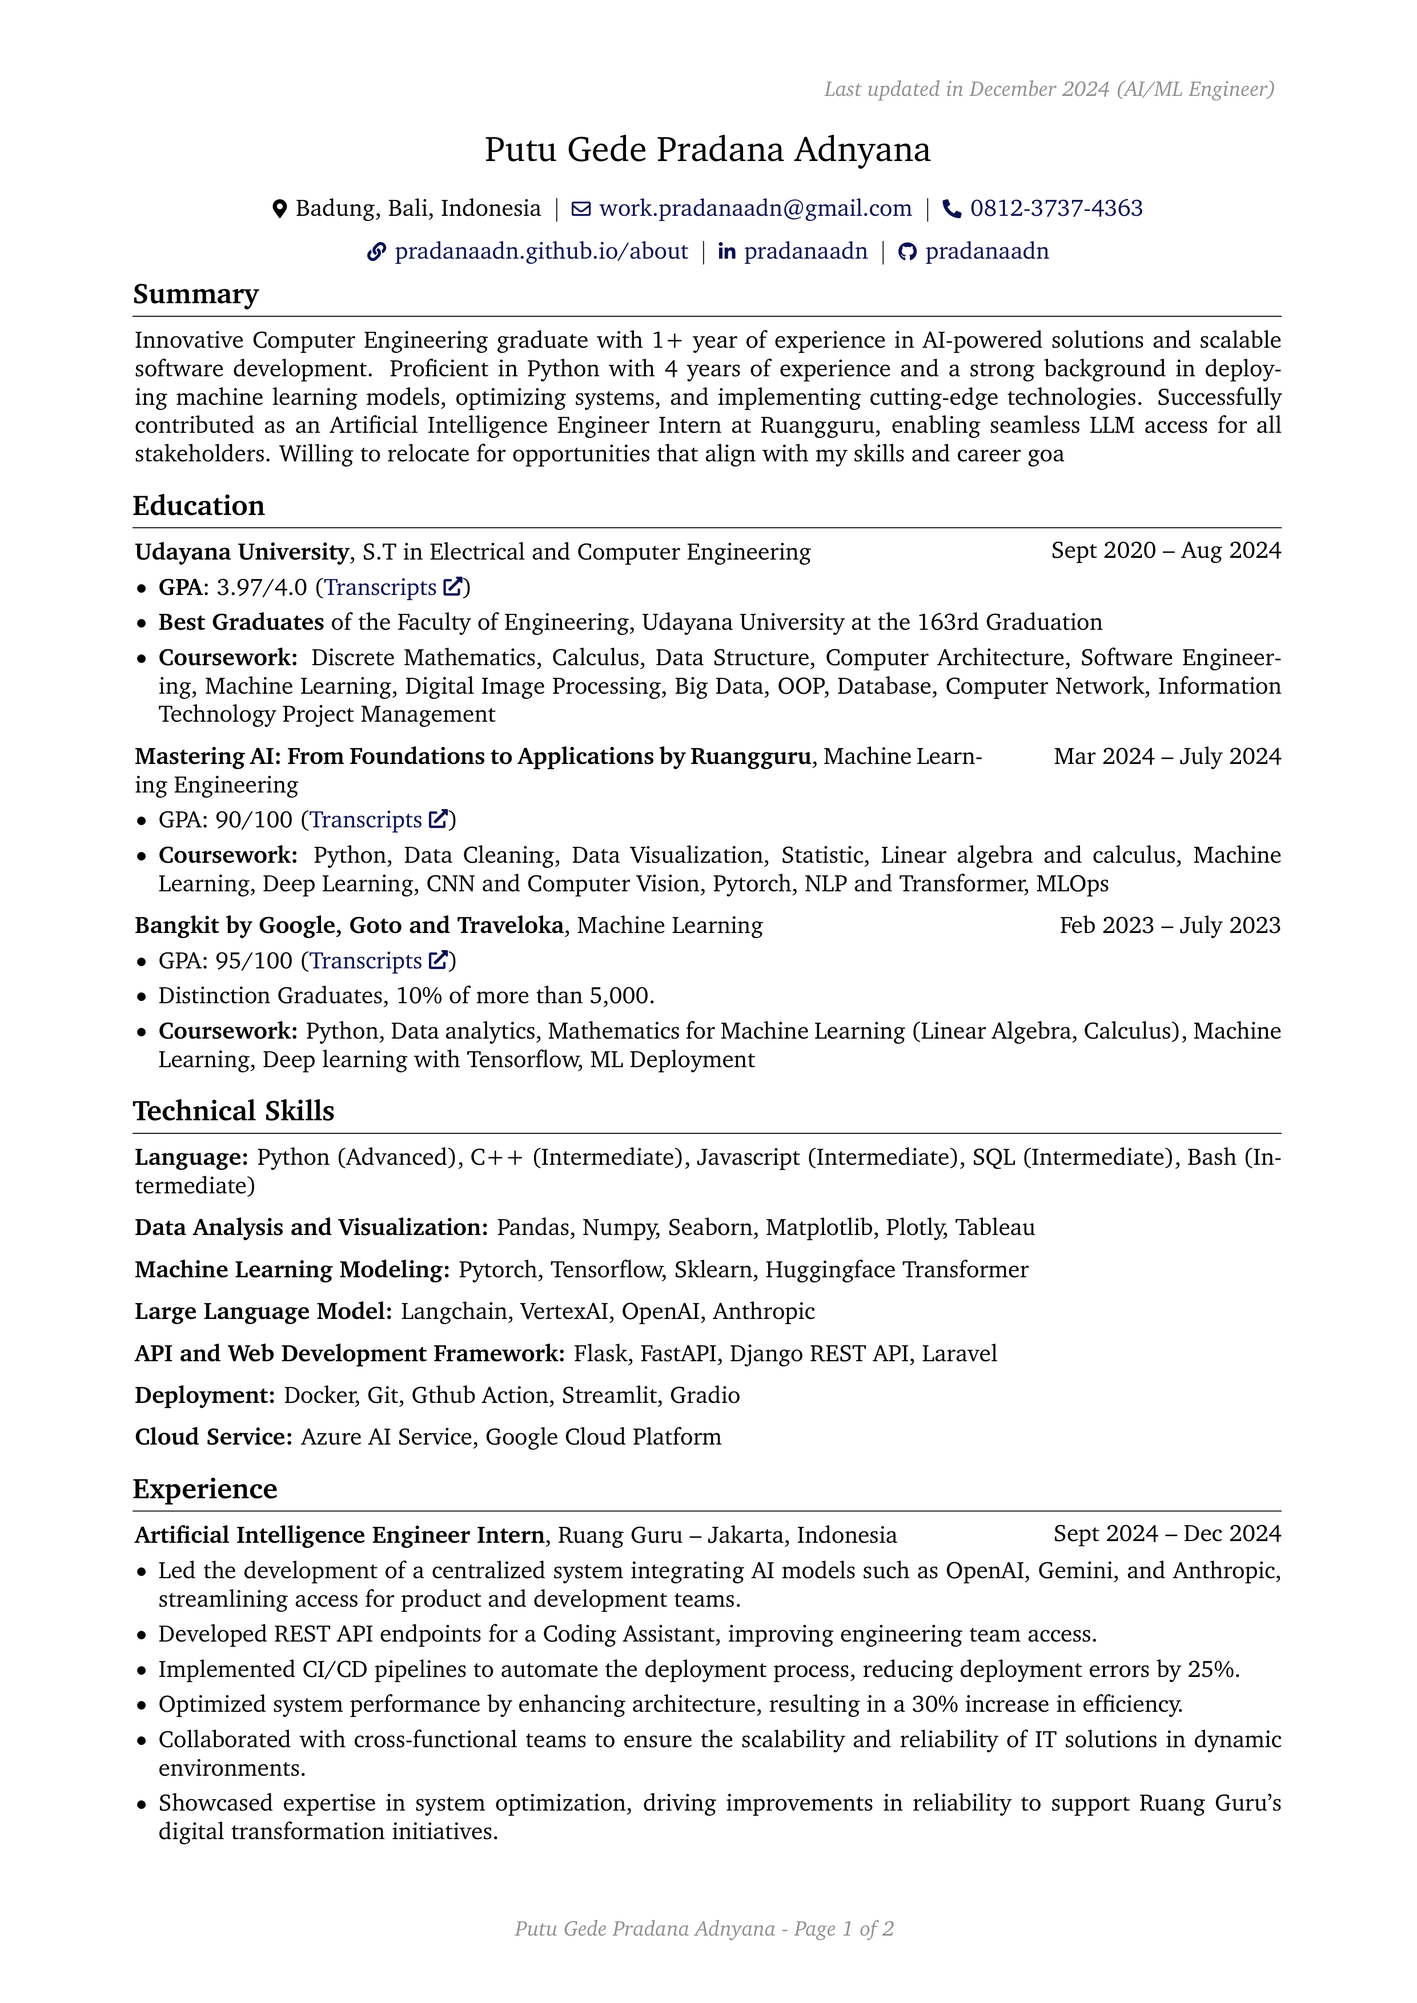
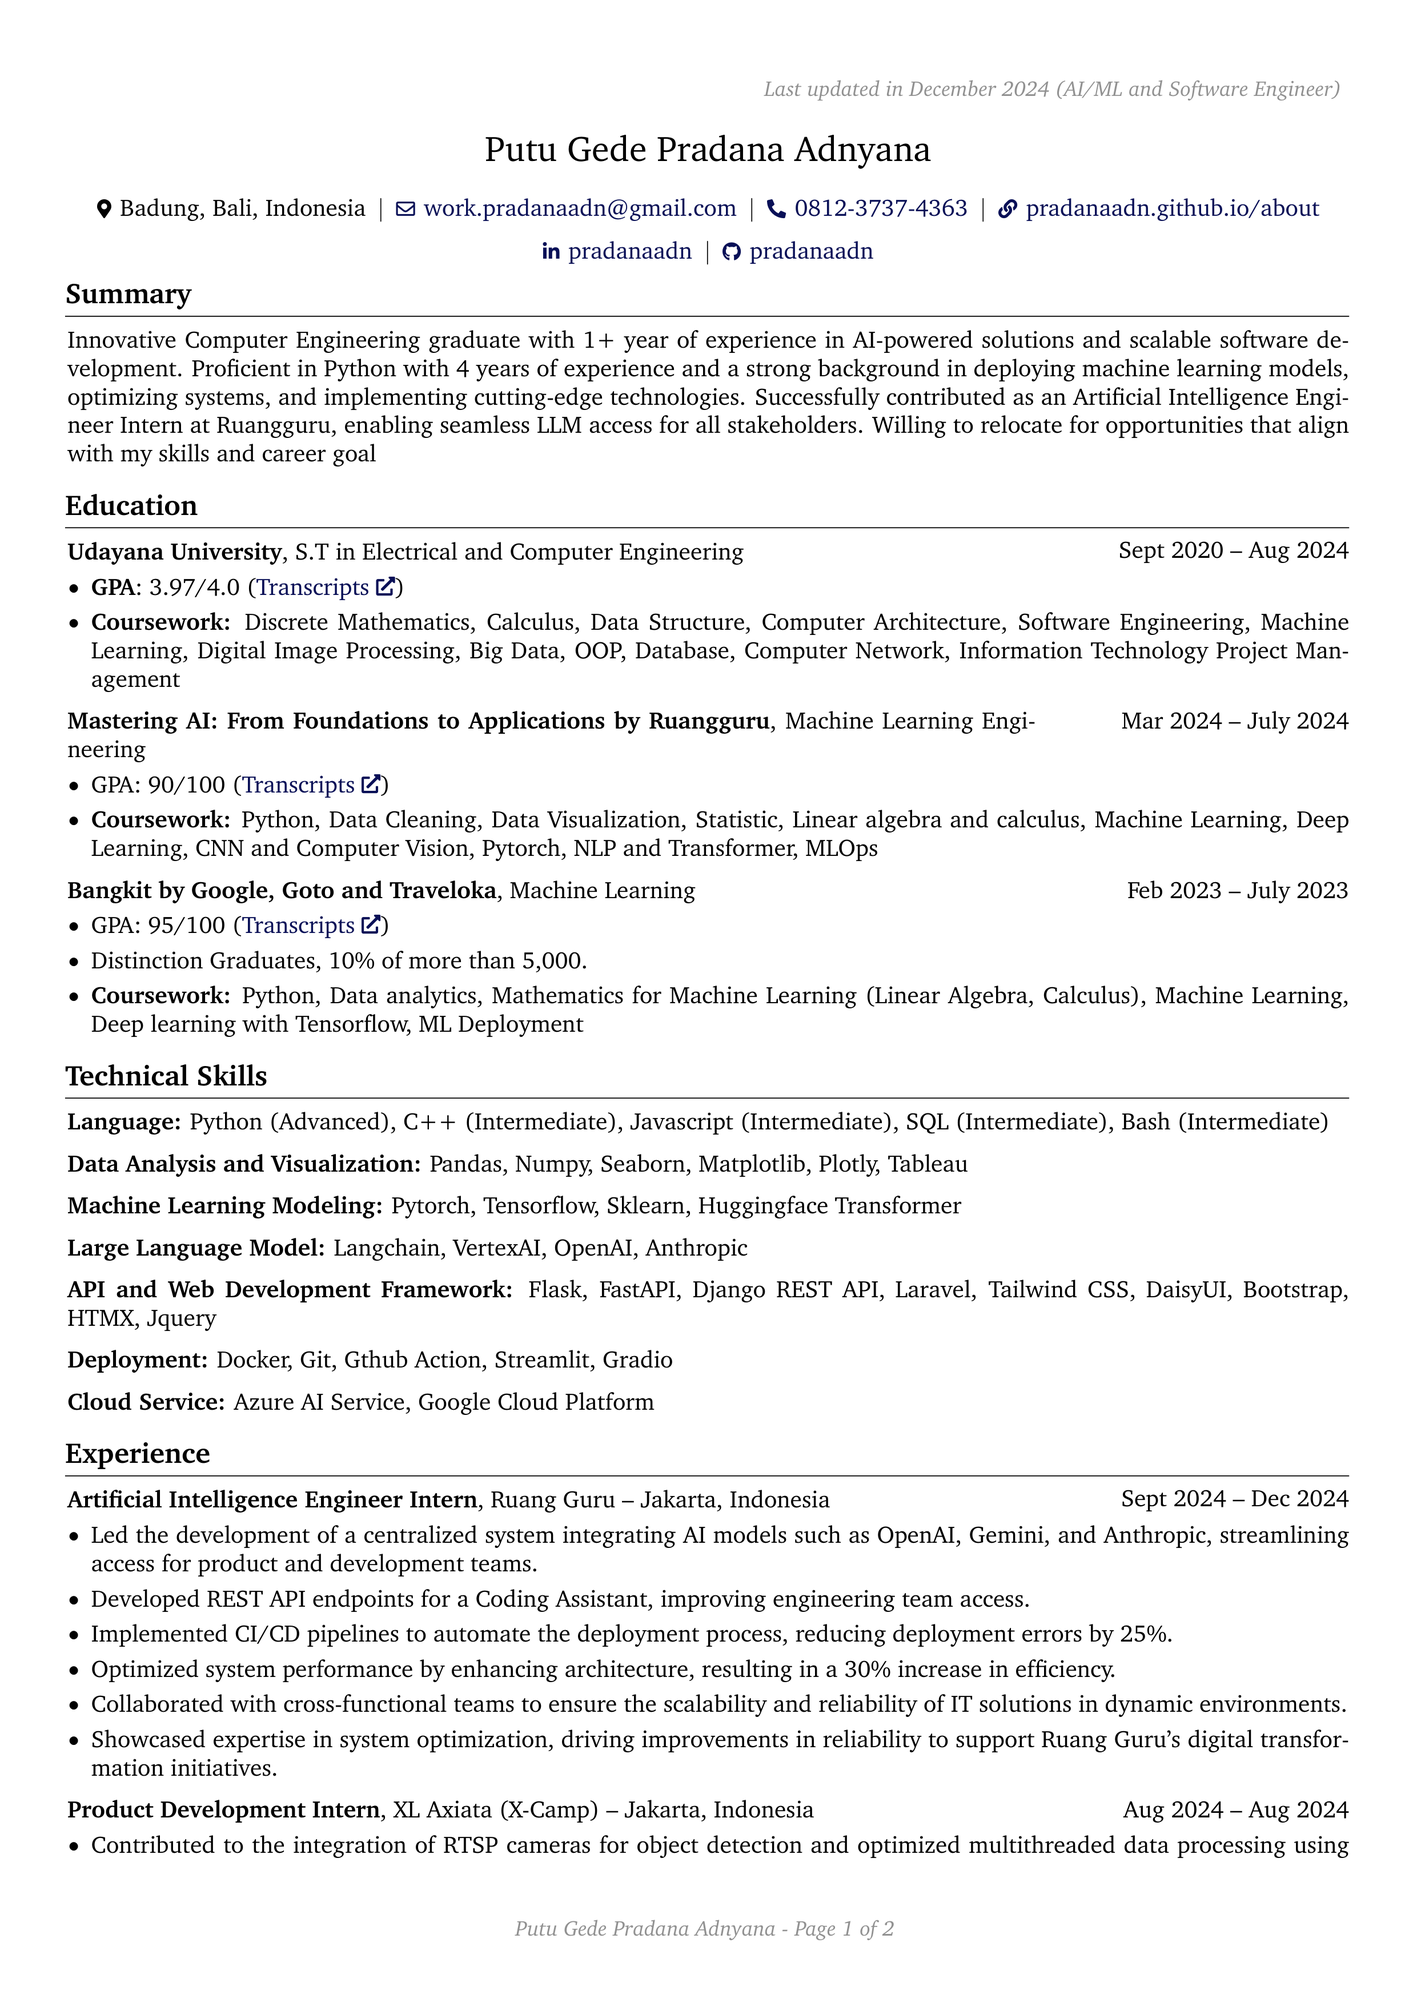
update: AI Engineer BSD

Changed region(s): [[0.031, 0.0932, 0.9621, 0.9322], [0.6207, 0.0311, 0.9, 0.0621], [0.7759, 0.2486, 0.9311, 0.2796]]

diff --git a/rendercv_output/Putu_Gede_Pradana_Adnyana_CV.html b/rendercv_output/Putu_Gede_Pradana_Adnyana_CV.html
@@ -41,13 +41,12 @@
         <li>GitHub: <a href="https://github.com/pradanaadn">pradanaadn</a></li>
         </ul>
         <h1>Summary</h1>
-        <p>Innovative Computer Engineering graduate with 1+ year of experience in AI-powered solutions and scalable software development. Proficient in Python with 4 years of experience and a strong background in deploying machine learning models, optimizing systems, and implementing cutting-edge technologies. Successfully contributed as an Artificial Intelligence Engineer Intern at Ruangguru, enabling seamless LLM access for all stakeholders. Willing to relocate for opportunities that align with my skills and career goa</p>
+        <p>Innovative Computer Engineering graduate with 1+ year of experience in AI-powered solutions and scalable software development. Proficient in Python with 4 years of experience and a strong background in deploying machine learning models, optimizing systems, and implementing cutting-edge technologies. Successfully contributed as an Artificial Intelligence Engineer Intern at Ruangguru, enabling seamless LLM access for all stakeholders. Willing to relocate for opportunities that align with my skills and career goal</p>
         <h1>Education</h1>
         <h2>Udayana University, S.T in Electrical and Computer Engineering</h2>
         <ul>
         <li>Sept 2020 – Aug 2024</li>
         <li><strong>GPA</strong>: 3.97/4.0 (<a href="https://drive.google.com/file/d/1pP8v7Sbi2i_VDCOLNyjXUbzSdkNwGF2a/view?usp=sharing">Transcripts</a>)</li>
-        <li><strong>Best Graduates</strong> of the Faculty of Engineering, Udayana University at the 163rd Graduation</li>
         <li><strong>Coursework:</strong> Discrete Mathematics, Calculus, Data Structure, Computer Architecture, Software Engineering, Machine Learning, Digital Image Processing, Big Data, OOP, Database, Computer Network, Information Technology Project Management</li>
         </ul>
         <h2>Mastering AI: From Foundations to Applications by Ruangguru, Machine Learning Engineering</h2>
@@ -69,7 +68,7 @@
         <li>Data Analysis and Visualization: Pandas, Numpy, Seaborn, Matplotlib, Plotly, Tableau</li>
         <li>Machine Learning Modeling: Pytorch, Tensorflow, Sklearn, Huggingface Transformer</li>
         <li>Large Language Model: Langchain, VertexAI, OpenAI, Anthropic</li>
-        <li>API and Web Development Framework: Flask, FastAPI, Django REST API, Laravel</li>
+        <li>API and Web Development Framework: Flask, FastAPI, Django REST API, Laravel, Tailwind CSS, DaisyUI, Bootstrap, HTMX, Jquery</li>
         <li>Deployment: Docker, Git, Gthub Action, Streamlit, Gradio</li>
         <li>Cloud Service: Azure AI Service, Google Cloud Platform</li>
         </ul>
@@ -112,19 +111,19 @@
         <li>Provided actionable insights, such as identifying 60% organic waste, leading to better infrastructure planning like composting facilities.</li>
         <li>Tools Used: Python, Streamlit, Alibaba Cloud, Ultralytics, OpenCV</li>
         </ul>
-        <h2>COVID-19 Detection via Chest X-rays</h2>
+        <h2>Capstone Project Information System</h2>
         <ul>
-        <li>(<a href="https://github.com/pradanaadn/covid-19-detection">Project Repository</a>)</li>
-        <li>Tackled the challenge of automating COVID-19 detection using chest X-rays with a deep learning model.</li>
-        <li>Led the development and training of a CNN model using PyTorch and a fine-tuned ResNet-50 architecture.</li>
-        <li>Preprocessed images (224x224 size, normalized, augmented) and implemented training with Adam optimizer and cross-entropy loss.</li>
+        <li>(<a href="https://drive.google.com/file/d/1x37qvoekHEoIhrANusdd5onVDC--48Cn/view?usp=sharing">Project Report</a>)</li>
+        <li>Designed an information system by creating database architecture with Entity-Relationship Diagrams (ERD),designing user interfaces using Figma, and conducting requirements analysis with Unified Modeling Language (UML).</li>
+        <li>Developed and implemented the system within agile environments, enhancing adaptability and facilitating iterative improvements.</li>
+        <li>Conducted comprehensive black-box testing and User Acceptance Testing (UAT), achieving a 93% acceptance rate in functionality.</li>
         <li>Achieved 92% validation accuracy after 10 epochs by fine-tuning pretrained layers.</li>
-        <li>Built a scalable pipeline for real-time predictions with confidence scores on unseen data.</li>
-        <li>Tools Used: Python, Pytorch, Transformer, Gradio</li>
+        <li>Optimized the system for scalability, performance, and user satisfaction through ongoing refinement and enhancement efforts.</li>
+        <li>Tools Used: Laravel, PHP, SQL, Javascript, Docker, Jquery, Bootstrap</li>
         </ul>
         <h2>UmMeals – Maternal and Child Nutrition App</h2>
         <ul>
-        <li>(<a href="https://github.com/Talenta-AI-2">Project Repository</a>)</li>
+        <li>(<a href="https://www.linkedin.com/posts/pradanaadn_ummeals-deck-activity-7223282999407099904-g2PD?utm_source=share&amp;utm_medium=member_desktop">Project Repository</a>)</li>
         <li>Developed an app supporting nutrition tracking for pregnant women and toddlers, featuring personalized monitoring and early stunting detection to provide better health insights.</li>
         <li>Managed all project phases from ideation and research to design and deployment, resulting in selection as a top 6 finalist out of 15 teams in the Skilvul, Biji-biji Initiative, and Microsoft Innovation Challenge 2024.</li>
         <li>Utilized Python, SQL with ORM using SQLAlchemy, Streamlit, Microsoft Azure AI, and Power BI to enhance app functionalities.</li>

diff --git a/rendercv_output/Putu_Gede_Pradana_Adnyana_CV.tex b/rendercv_output/Putu_Gede_Pradana_Adnyana_CV.tex
@@ -5,8 +5,8 @@
     ignoreheadfoot, % set margins without considering header and footer
     top=2 cm, % seperation between body and page edge from the top
     bottom=2 cm, % seperation between body and page edge from the bottom
-    left=2 cm, % seperation between body and page edge from the left
-    right=2 cm, % seperation between body and page edge from the right
+    left=1 cm, % seperation between body and page edge from the left
+    right=1 cm, % seperation between body and page edge from the right
     footskip=1.0 cm, % seperation between body and footer
     % showframe % for debugging 
 ]{geometry} % for adjusting page geometry
@@ -142,10 +142,10 @@
 \newcommand{\placelastupdatedtext}{% \placetextbox{<horizontal pos>}{<vertical pos>}{<stuff>}
   \AddToShipoutPictureFG*{% Add <stuff> to current page foreground
     \put(
-        \LenToUnit{\paperwidth-2 cm-0 cm+0.05cm},
+        \LenToUnit{\paperwidth-1 cm-0 cm+0.05cm},
         \LenToUnit{\paperheight-1.0 cm}
     ){\vtop{{\null}\makebox[0pt][c]{
-        \small\color{gray}\textit{Last updated in December 2024 (AI/ML Engineer)}\hspace{\widthof{Last updated in December 2024 (AI/ML Engineer)}}
+        \small\color{gray}\textit{Last updated in December 2024 (AI/ML and Software Engineer)}\hspace{\widthof{Last updated in December 2024 (AI/ML and Software Engineer)}}
     }}}%
   }%
 }%
@@ -204,7 +204,7 @@
 
         
         \begin{onecolentry}
-            Innovative Computer Engineering graduate with 1+ year of experience in AI-powered solutions and scalable software development. Proficient in Python with 4 years of experience and a strong background in deploying machine learning models, optimizing systems, and implementing cutting-edge technologies. Successfully contributed as an Artificial Intelligence Engineer Intern at Ruangguru, enabling seamless LLM access for all stakeholders. Willing to relocate for opportunities that align with my skills and career goa
+            Innovative Computer Engineering graduate with 1+ year of experience in AI-powered solutions and scalable software development. Proficient in Python with 4 years of experience and a strong background in deploying machine learning models, optimizing systems, and implementing cutting-edge technologies. Successfully contributed as an Artificial Intelligence Engineer Intern at Ruangguru, enabling seamless LLM access for all stakeholders. Willing to relocate for opportunities that align with my skills and career goal
         \end{onecolentry}
 
 
@@ -223,7 +223,6 @@
         \begin{onecolentry}
             \begin{highlights}
                 \item \textbf{GPA}: 3.97/4.0 (\href{https://drive.google.com/file/d/1pP8v7Sbi2i_VDCOLNyjXUbzSdkNwGF2a/view?usp=sharing}{Transcripts})
-                \item \textbf{Best Graduates} of the Faculty of Engineering, Udayana University at the 163rd Graduation
                 \item \textbf{Coursework:} Discrete Mathematics, Calculus, Data Structure, Computer Architecture, Software Engineering, Machine Learning, Digital Image Processing, Big Data, OOP, Database, Computer Network, Information Technology Project Management
             \end{highlights}
         \end{onecolentry}
@@ -294,7 +293,7 @@
         \vspace{0.2 cm}
 
         \begin{onecolentry}
-            \textbf{API and Web Development Framework:} Flask, FastAPI, Django REST API, Laravel
+            \textbf{API and Web Development Framework:} Flask, FastAPI, Django REST API, Laravel, Tailwind CSS, DaisyUI, Bootstrap, HTMX, Jquery
         \end{onecolentry}
 
         \vspace{0.2 cm}
@@ -414,19 +413,19 @@
         \vspace{0.2 cm}
 
         \begin{twocolentry}{
-            (\href{https://github.com/pradanaadn/covid-19-detection}{Project Repository})
+            (\href{https://drive.google.com/file/d/1x37qvoekHEoIhrANusdd5onVDC--48Cn/view?usp=sharing}{Project Report})
         }
-            \textbf{COVID-19 Detection via Chest X-rays}\end{twocolentry}
+            \textbf{Capstone Project Information System}\end{twocolentry}
 
         \vspace{0.10 cm}
         \begin{onecolentry}
             \begin{highlights}
-                \item Tackled the challenge of automating COVID-19 detection using chest X-rays with a deep learning model.
-                \item Led the development and training of a CNN model using PyTorch and a fine-tuned ResNet-50 architecture.
-                \item Preprocessed images (224x224 size, normalized, augmented) and implemented training with Adam optimizer and cross-entropy loss.
+                \item Designed an information system by creating database architecture with Entity-Relationship Diagrams (ERD),designing user interfaces using Figma, and conducting requirements analysis with Unified Modeling Language (UML).
+                \item Developed and implemented the system within agile environments, enhancing adaptability and facilitating iterative improvements.
+                \item Conducted comprehensive black-box testing and User Acceptance Testing (UAT), achieving a 93\% acceptance rate in functionality.
                 \item Achieved 92\% validation accuracy after 10 epochs by fine-tuning pretrained layers.
-                \item Built a scalable pipeline for real-time predictions with confidence scores on unseen data.
-                \item Tools Used: Python, Pytorch, Transformer, Gradio
+                \item Optimized the system for scalability, performance, and user satisfaction through ongoing refinement and enhancement efforts.
+                \item Tools Used: Laravel, PHP, SQL, Javascript, Docker, Jquery, Bootstrap
             \end{highlights}
         \end{onecolentry}
 
@@ -434,7 +433,7 @@
         \vspace{0.2 cm}
 
         \begin{twocolentry}{
-            (\href{https://github.com/Talenta-AI-2}{Project Repository})
+            (\href{https://www.linkedin.com/posts/pradanaadn_ummeals-deck-activity-7223282999407099904-g2PD?utm_source=share&utm_medium=member_desktop}{Project Repository})
         }
             \textbf{UmMeals – Maternal and Child Nutrition App}\end{twocolentry}
 

diff --git a/rendercv_output/Putu_Gede_Pradana_Adnyana_CV.md b/rendercv_output/Putu_Gede_Pradana_Adnyana_CV.md
@@ -10,7 +10,7 @@
 
 # Summary
 
-Innovative Computer Engineering graduate with 1+ year of experience in AI-powered solutions and scalable software development. Proficient in Python with 4 years of experience and a strong background in deploying machine learning models, optimizing systems, and implementing cutting-edge technologies. Successfully contributed as an Artificial Intelligence Engineer Intern at Ruangguru, enabling seamless LLM access for all stakeholders. Willing to relocate for opportunities that align with my skills and career goa
+Innovative Computer Engineering graduate with 1+ year of experience in AI-powered solutions and scalable software development. Proficient in Python with 4 years of experience and a strong background in deploying machine learning models, optimizing systems, and implementing cutting-edge technologies. Successfully contributed as an Artificial Intelligence Engineer Intern at Ruangguru, enabling seamless LLM access for all stakeholders. Willing to relocate for opportunities that align with my skills and career goal
 
 # Education
 
@@ -18,7 +18,6 @@ Innovative Computer Engineering graduate with 1+ year of experience in AI-powere
 
 - Sept 2020 – Aug 2024
 - **GPA**: 3.97/4.0 ([Transcripts](https://drive.google.com/file/d/1pP8v7Sbi2i_VDCOLNyjXUbzSdkNwGF2a/view?usp=sharing))
-- **Best Graduates** of the Faculty of Engineering, Udayana University at the 163rd Graduation
 - **Coursework:** Discrete Mathematics, Calculus, Data Structure, Computer Architecture, Software Engineering, Machine Learning, Digital Image Processing, Big Data, OOP, Database, Computer Network, Information Technology Project Management
 
 ## Mastering AI: From Foundations to Applications by Ruangguru, Machine Learning Engineering
@@ -40,7 +39,7 @@ Innovative Computer Engineering graduate with 1+ year of experience in AI-powere
 - Data Analysis and Visualization: Pandas, Numpy, Seaborn, Matplotlib, Plotly, Tableau
 - Machine Learning Modeling: Pytorch, Tensorflow, Sklearn, Huggingface Transformer
 - Large Language Model: Langchain, VertexAI, OpenAI, Anthropic
-- API and Web Development Framework: Flask, FastAPI, Django REST API, Laravel
+- API and Web Development Framework: Flask, FastAPI, Django REST API, Laravel, Tailwind CSS, DaisyUI, Bootstrap, HTMX, Jquery
 - Deployment: Docker, Git, Gthub Action, Streamlit, Gradio
 - Cloud Service: Azure AI Service, Google Cloud Platform
 # Experience
@@ -90,19 +89,19 @@ Indonesia (Native), English (Proficient, TOEFL ITP Score >500) [[Certificate](ht
 - Provided actionable insights, such as identifying 60% organic waste, leading to better infrastructure planning like composting facilities.
 - Tools Used: Python, Streamlit, Alibaba Cloud, Ultralytics, OpenCV
 
-## COVID-19 Detection via Chest X-rays
+## Capstone Project Information System
 
-- ([Project Repository](https://github.com/pradanaadn/covid-19-detection))
-- Tackled the challenge of automating COVID-19 detection using chest X-rays with a deep learning model.
-- Led the development and training of a CNN model using PyTorch and a fine-tuned ResNet-50 architecture.
-- Preprocessed images (224x224 size, normalized, augmented) and implemented training with Adam optimizer and cross-entropy loss.
+- ([Project Report](https://drive.google.com/file/d/1x37qvoekHEoIhrANusdd5onVDC--48Cn/view?usp=sharing))
+- Designed an information system by creating database architecture with Entity-Relationship Diagrams (ERD),designing user interfaces using Figma, and conducting requirements analysis with Unified Modeling Language (UML).
+- Developed and implemented the system within agile environments, enhancing adaptability and facilitating iterative improvements.
+- Conducted comprehensive black-box testing and User Acceptance Testing (UAT), achieving a 93% acceptance rate in functionality.
 - Achieved 92% validation accuracy after 10 epochs by fine-tuning pretrained layers.
-- Built a scalable pipeline for real-time predictions with confidence scores on unseen data.
-- Tools Used: Python, Pytorch, Transformer, Gradio
+- Optimized the system for scalability, performance, and user satisfaction through ongoing refinement and enhancement efforts.
+- Tools Used: Laravel, PHP, SQL, Javascript, Docker, Jquery, Bootstrap
 
 ## UmMeals – Maternal and Child Nutrition App
 
-- ([Project Repository](https://github.com/Talenta-AI-2))
+- ([Project Repository](https://www.linkedin.com/posts/pradanaadn_ummeals-deck-activity-7223282999407099904-g2PD?utm_source=share&utm_medium=member_desktop))
 - Developed an app supporting nutrition tracking for pregnant women and toddlers, featuring personalized monitoring and early stunting detection to provide better health insights.
 - Managed all project phases from ideation and research to design and deployment, resulting in selection as a top 6 finalist out of 15 teams in the Skilvul, Biji-biji Initiative, and Microsoft Innovation Challenge 2024.
 - Utilized Python, SQL with ORM using SQLAlchemy, Streamlit, Microsoft Azure AI, and Power BI to enhance app functionalities.
